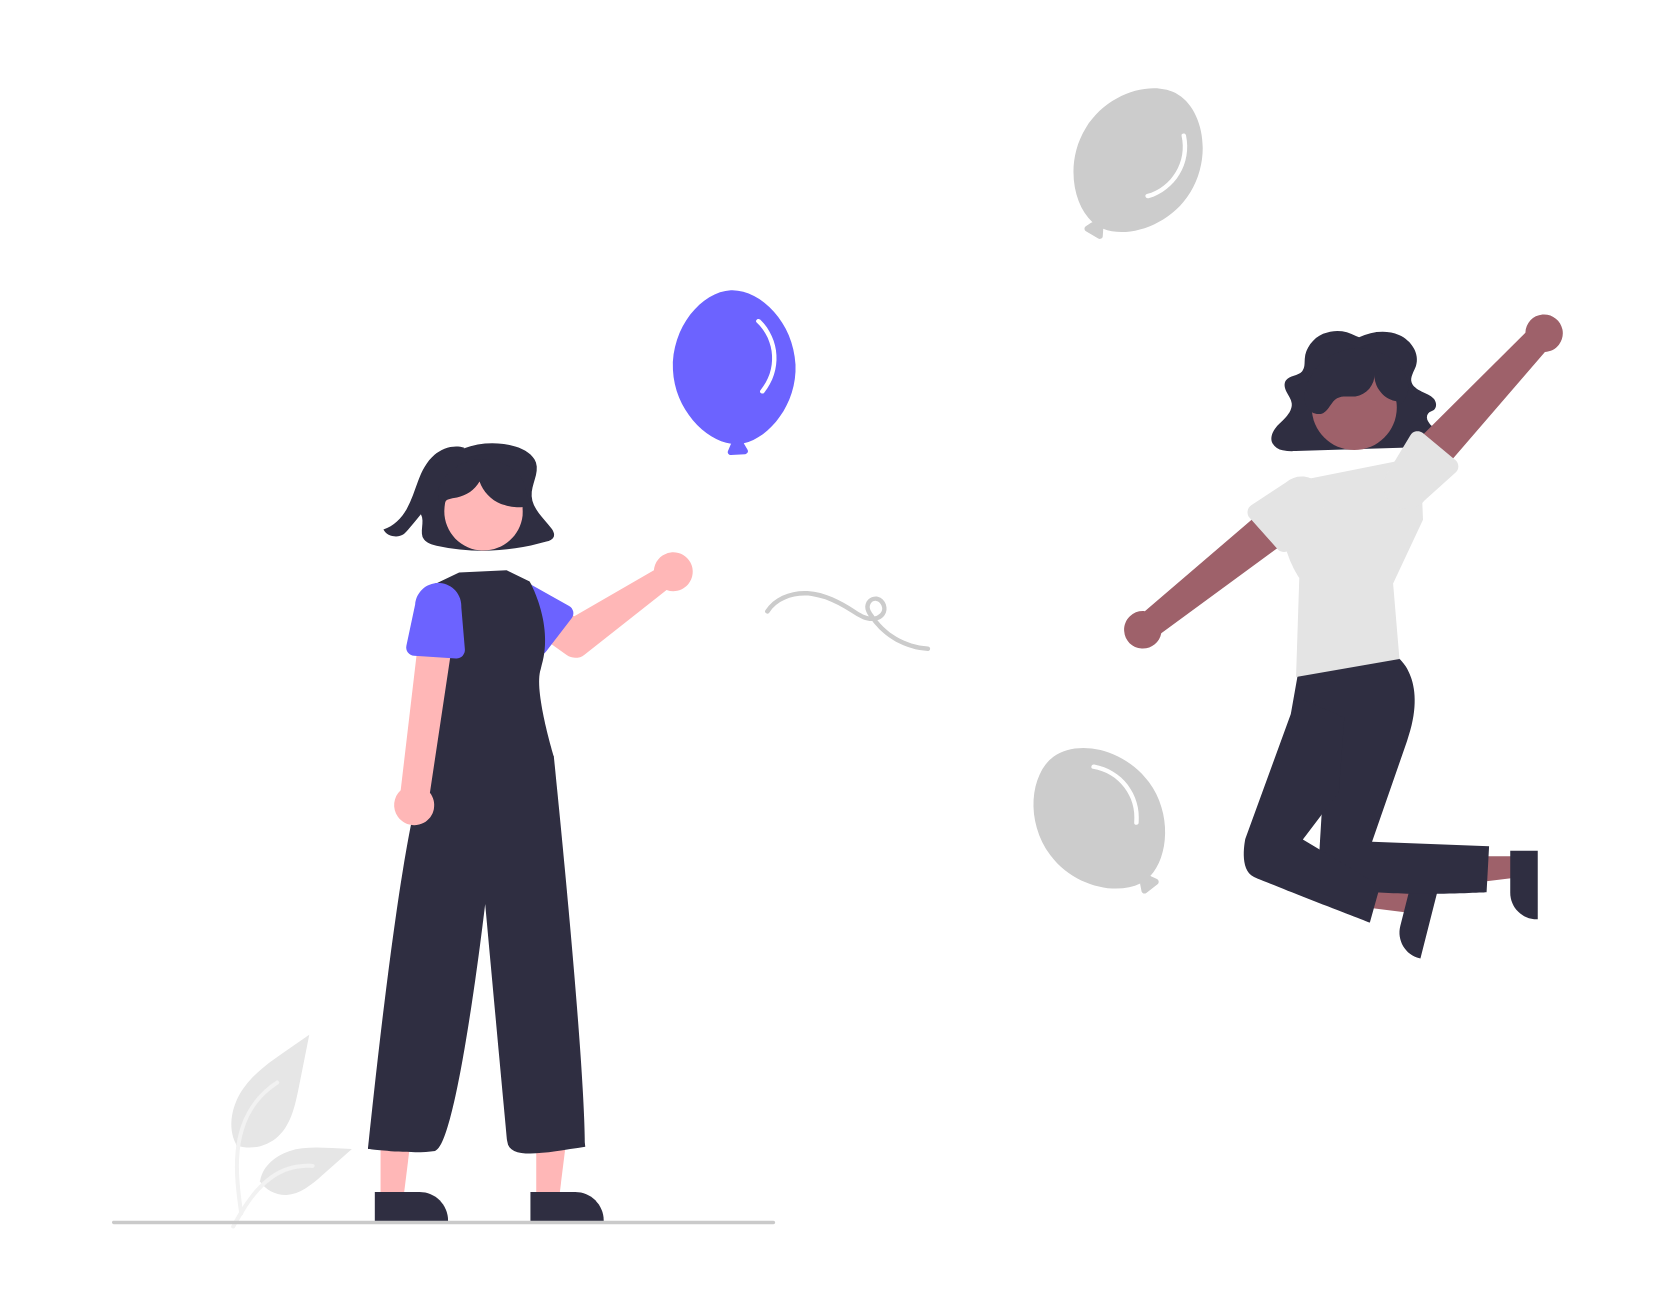
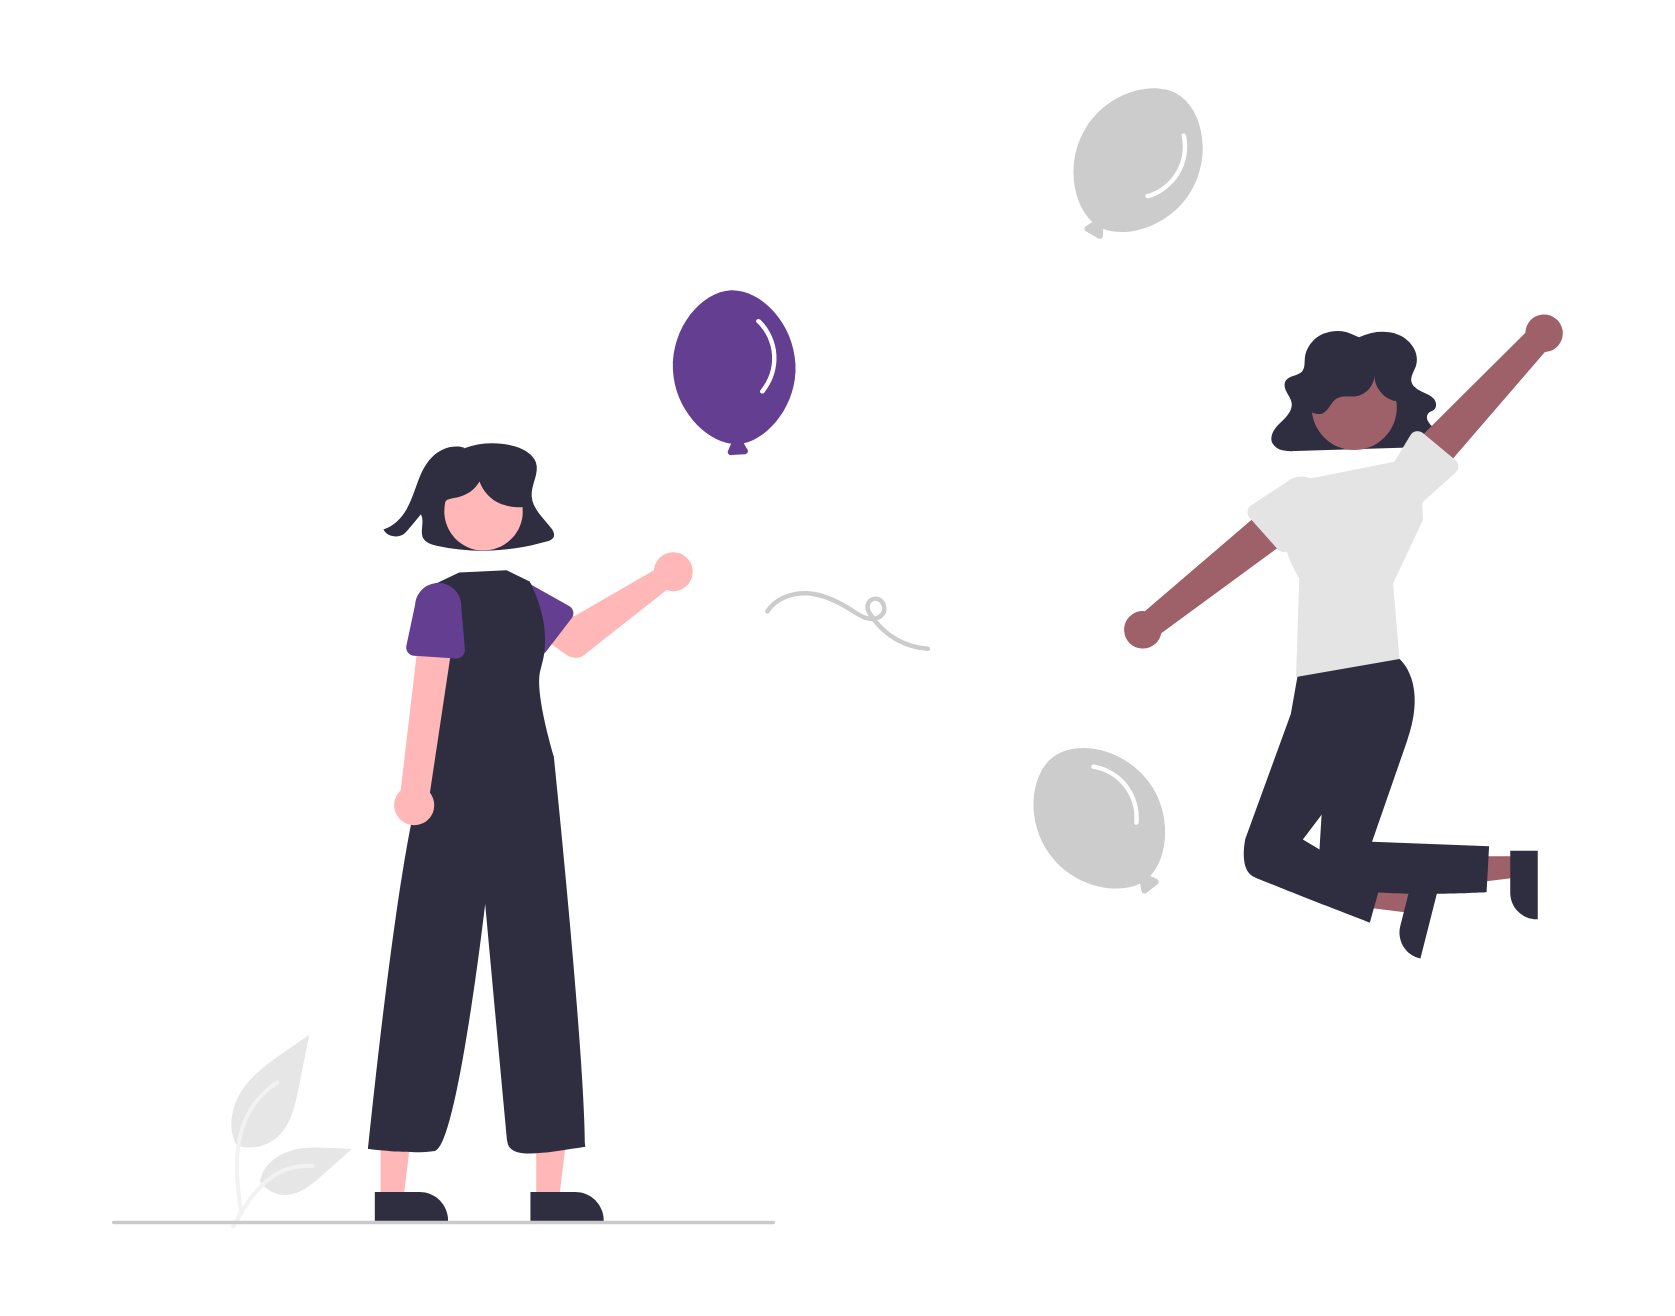
corrected data and image color

Changed region(s): [[0.4036, 0.2181, 0.4967, 0.3427], [0.2173, 0.4362, 0.2794, 0.4985], [0.3104, 0.4362, 0.3415, 0.4985]]

diff --git a/content/blog/on-the-go-architecture.md b/content/blog/on-the-go-architecture.md
@@ -1,6 +1,6 @@
 ---
 title: 'The Architecture of On the Go'
-date: 2025-05-04
+date: 2025-05-05
 featureImage: images/undraw/undraw_private-data.svg
 ogImage: images/undraw/undraw_private-data.png
 author: Jack Kawell
